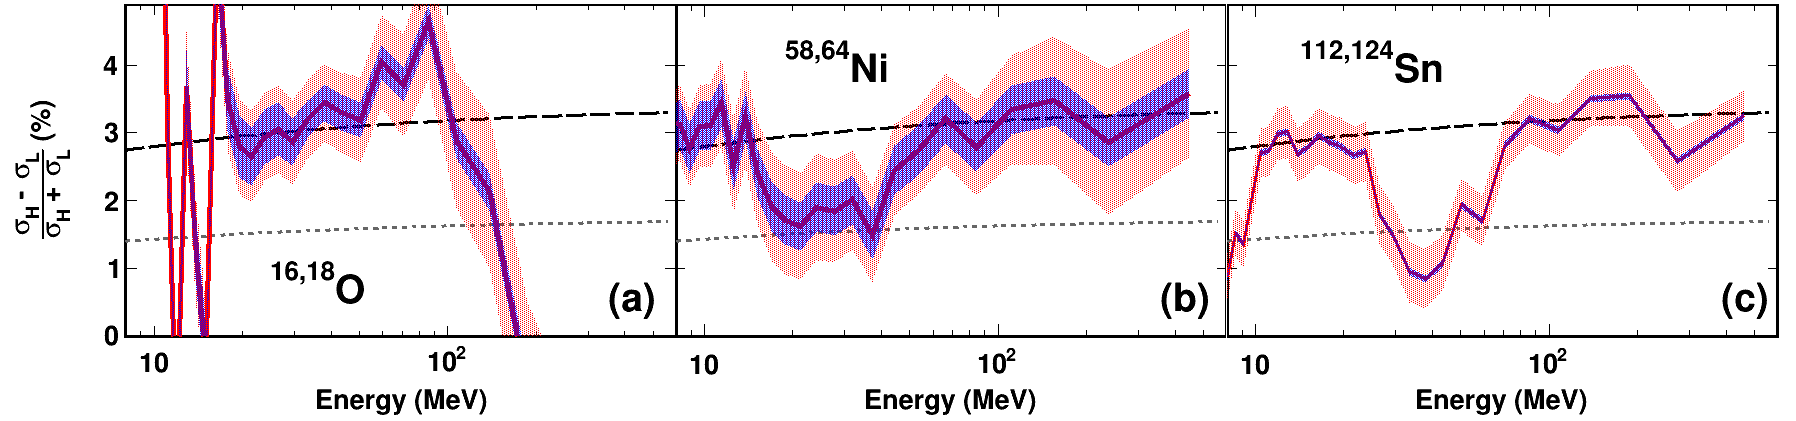
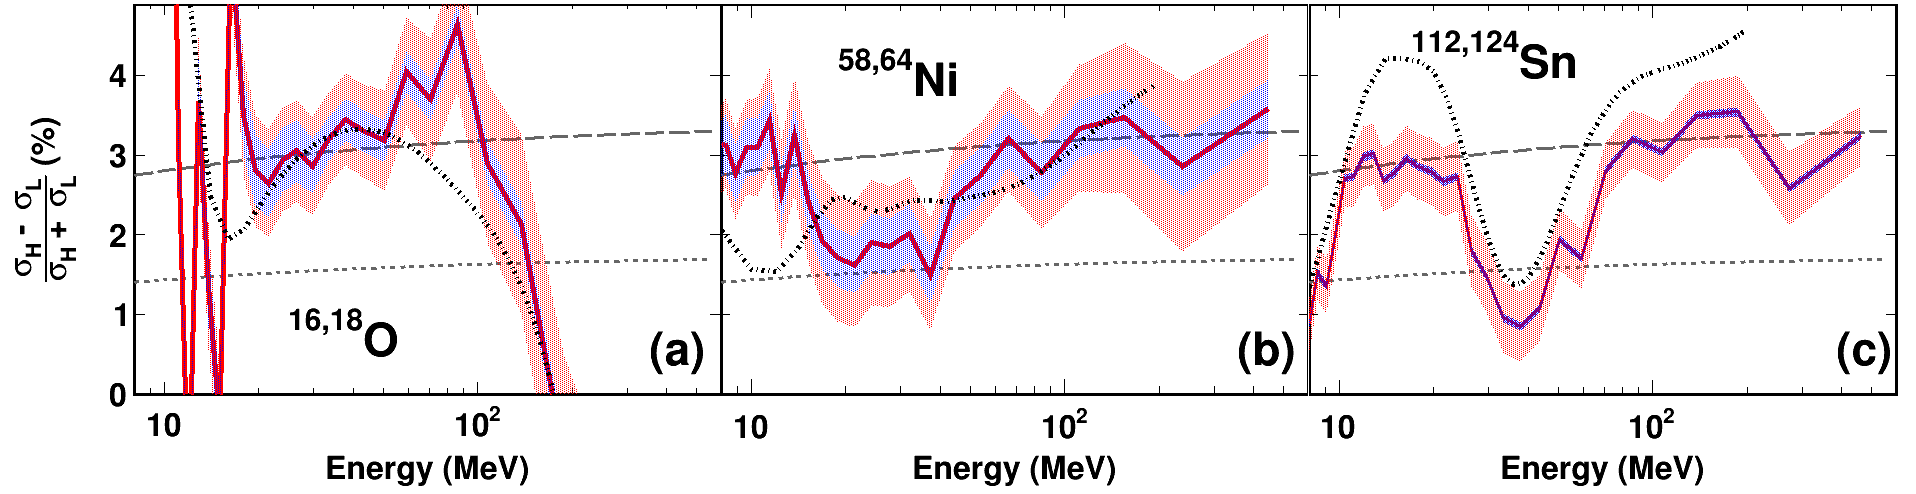
Updated ThreePanelRelDiff to include DOM relative diffs from fit

diff --git a/analysis/prettyPrint/ThreePanelRelDiff.cpp b/analysis/prettyPrint/ThreePanelRelDiff.cpp
@@ -69,6 +69,45 @@ void ThreePanelRelDiff() {
         TGraph* SARelDiffGraphSixth = (TGraph*)ramsauerFile->Get(SARelDiffGraphSixthName.c_str());
         TGraph* RamsauerRelDiffGraph = (TGraph*)ramsauerFile->Get(RamsauerRelDiffGraphName.c_str());
 
+        // create DOM relative difference file
+        vector<double> energies;
+        vector<double> CSs;
+        vector<double> energyErrors;
+        vector<double> CSErrors;
+
+        string DOMRelDiffFileName = "/home/cdpruitt/gDOM/output/o18_o16.txt";
+        ifstream DOMRelDiffFile(DOMRelDiffFileName.c_str());
+        string line;
+        while(getline(DOMRelDiffFile,line))
+        {
+            // parse line into tokens
+            vector<string> tokens;
+            istringstream iss(line);
+            copy(istream_iterator<string>(iss),
+                    istream_iterator<string>(),
+                    back_inserter(tokens));
+
+            // skip empty lines
+            if(!tokens.size())
+            {
+                continue;
+            }
+
+            energies.push_back(stod(tokens[0]));
+            energyErrors.push_back(0);
+            CSs.push_back(100*stod(tokens[1]));
+            CSErrors.push_back(0);
+            //CSErrors.push_back(100*stod(tokens[2]));
+        }
+
+        TGraphAsymmErrors* DOMGraph = new TGraphAsymmErrors(energies.size(),
+                &energies[0],
+                &CSs[0],
+                &energyErrors[0],
+                &energyErrors[0],
+                &CSErrors[0],
+                &CSErrors[0]);
+
         // Set graph point and line characteristics
         relGraph->SetLineColor(kRed);
         relGraph->SetLineWidth(5);
@@ -79,18 +118,22 @@ void ThreePanelRelDiff() {
 
         SARelDiffGraphThird->SetLineStyle(9);
         SARelDiffGraphThird->SetLineWidth(3);
-        SARelDiffGraphThird->SetLineColor(kBlack);
+        SARelDiffGraphThird->SetLineColor(kGray+2);
 
         SARelDiffGraphSixth->SetLineStyle(7);
         SARelDiffGraphSixth->SetLineWidth(3);
         SARelDiffGraphSixth->SetLineColor(kGray+2);
+
+        DOMGraph->SetLineStyle(4);
+        DOMGraph->SetLineWidth(5);
+        DOMGraph->SetLineColor(kBlack);
 
         RamsauerRelDiffGraph->SetLineStyle(7);
         RamsauerRelDiffGraph->SetLineWidth(5);
         RamsauerRelDiffGraph->SetLineColor(kGray+2);
 
         relGraphSE->SetFillColor(kBlue);
-        relGraphSE->SetFillStyle(3001);
+        relGraphSE->SetFillStyle(3002);
 
         // first panel
         {
@@ -110,6 +153,7 @@ void ThreePanelRelDiff() {
             mg->Add(SARelDiffGraphSixth, "l");
             mg->Add(relGraph,"3l");
             mg->Add(relGraphSE, "3");
+            mg->Add(DOMGraph, "l");
 
             mg->Draw("al");
 
@@ -162,6 +206,7 @@ void ThreePanelRelDiff() {
             legend->AddEntry(relGraph,"Exp data, sys + stat   ","f");
             //legend->AddEntry(SARelDiffGraph,"SAS, r #alpha A^{1/3} ","l");
             legend->AddEntry(relGraphSE,"Exp data, sys only   ","f");
+            legend->AddEntry(DOMGraph,"DOM fit","l");
             //legend->AddEntry(RamsauerRelDiffGraph,"Ramsauer","l");
             //legend->Draw();
         }
@@ -189,6 +234,47 @@ void ThreePanelRelDiff() {
         TGraph* SARelDiffGraphSixth = (TGraph*)ramsauerFile->Get(SARelDiffGraphSixthName.c_str());
         TGraph* RamsauerRelDiffGraph = (TGraph*)ramsauerFile->Get(RamsauerRelDiffGraphName.c_str());
 
+        // create DOM relative difference file
+        vector<double> energies;
+        vector<double> CSs;
+        vector<double> energyErrors;
+        vector<double> CSErrors;
+
+        string DOMRelDiffFileName = "/home/cdpruitt/gDOM/output/ni64_ni58.txt";
+        ifstream DOMRelDiffFile(DOMRelDiffFileName.c_str());
+        string line;
+        while(getline(DOMRelDiffFile,line))
+        {
+            // parse line into tokens
+            vector<string> tokens;
+            istringstream iss(line);
+            copy(istream_iterator<string>(iss),
+                    istream_iterator<string>(),
+                    back_inserter(tokens));
+
+            // skip empty lines
+            if(!tokens.size())
+            {
+                continue;
+            }
+
+            energies.push_back(stod(tokens[0]));
+            energyErrors.push_back(0);
+            CSs.push_back(100*stod(tokens[1]));
+            CSErrors.push_back(0);
+            //CSErrors.push_back(100*stod(tokens[2]));
+        }
+
+        TGraphAsymmErrors* DOMGraph = new TGraphAsymmErrors(energies.size(),
+                &energies[0],
+                &CSs[0],
+                &energyErrors[0],
+                &energyErrors[0],
+                &CSErrors[0],
+                &CSErrors[0]);
+
+
+
         // Set graph point and line characteristics
         relGraph->SetLineColor(kRed);
         relGraph->SetLineWidth(5);
@@ -199,18 +285,23 @@ void ThreePanelRelDiff() {
 
         SARelDiffGraphThird->SetLineStyle(9);
         SARelDiffGraphThird->SetLineWidth(3);
-        SARelDiffGraphThird->SetLineColor(kBlack);
+        SARelDiffGraphThird->SetLineColor(kGray+2);
 
         SARelDiffGraphSixth->SetLineStyle(7);
         SARelDiffGraphSixth->SetLineWidth(3);
         SARelDiffGraphSixth->SetLineColor(kGray+2);
+
+        DOMGraph->SetLineStyle(4);
+        DOMGraph->SetLineWidth(5);
+        DOMGraph->SetLineColor(kBlack);
+
 
         RamsauerRelDiffGraph->SetLineStyle(7);
         RamsauerRelDiffGraph->SetLineWidth(5);
         RamsauerRelDiffGraph->SetLineColor(kGray+2);
 
         relGraphSE->SetFillColor(kBlue);
-        relGraphSE->SetFillStyle(3001);
+        relGraphSE->SetFillStyle(3002);
 
         // second panel
         {
@@ -230,6 +321,7 @@ void ThreePanelRelDiff() {
             mg->Add(SARelDiffGraphSixth, "l");
             mg->Add(relGraph,"3l");
             mg->Add(relGraphSE, "3");
+            mg->Add(DOMGraph, "l");
 
             mg->Draw("al");
 
@@ -282,6 +374,8 @@ void ThreePanelRelDiff() {
             legend->AddEntry(relGraph,"Exp data, sys + stat   ","f");
             //legend->AddEntry(SARelDiffGraph,"SAS, r #alpha A^{1/3} ","l");
             legend->AddEntry(relGraphSE,"Exp data, sys only   ","f");
+            legend->AddEntry(DOMGraph,"DOM fit","l");
+
             //legend->AddEntry(RamsauerRelDiffGraph,"Ramsauer","l");
             //legend->Draw();
         }
@@ -312,6 +406,45 @@ void ThreePanelRelDiff() {
         TGraph* RamsauerRelDiffGraph = (TGraph*)ramsauerFile->Get(RamsauerRelDiffGraphName.c_str());
         TGraph* RamsauerRelDiffGraphSixth = (TGraph*)ramsauerFile->Get(RamsauerRelDiffGraphSixthName.c_str());
 
+        // create DOM relative difference file
+        vector<double> energies;
+        vector<double> CSs;
+        vector<double> energyErrors;
+        vector<double> CSErrors;
+
+        string DOMRelDiffFileName = "/home/cdpruitt/gDOM/output/sn124_sn112.txt";
+        ifstream DOMRelDiffFile(DOMRelDiffFileName.c_str());
+        string line;
+        while(getline(DOMRelDiffFile,line))
+        {
+            // parse line into tokens
+            vector<string> tokens;
+            istringstream iss(line);
+            copy(istream_iterator<string>(iss),
+                    istream_iterator<string>(),
+                    back_inserter(tokens));
+
+            // skip empty lines
+            if(!tokens.size())
+            {
+                continue;
+            }
+
+            energies.push_back(stod(tokens[0]));
+            energyErrors.push_back(0);
+            CSs.push_back(100*stod(tokens[1]));
+            CSErrors.push_back(0);
+            //CSErrors.push_back(100*stod(tokens[2]));
+        }
+
+        TGraphAsymmErrors* DOMGraph = new TGraphAsymmErrors(energies.size(),
+                &energies[0],
+                &CSs[0],
+                &energyErrors[0],
+                &energyErrors[0],
+                &CSErrors[0],
+                &CSErrors[0]);
+
         // Set graph point and line characteristics
         relGraph->SetLineColor(kRed);
         relGraph->SetLineWidth(3);
@@ -322,11 +455,15 @@ void ThreePanelRelDiff() {
 
         SARelDiffGraphThird->SetLineStyle(9);
         SARelDiffGraphThird->SetLineWidth(3);
-        SARelDiffGraphThird->SetLineColor(kBlack);
+        SARelDiffGraphThird->SetLineColor(kGray+2);
 
         SARelDiffGraphSixth->SetLineStyle(7);
         SARelDiffGraphSixth->SetLineWidth(3);
         SARelDiffGraphSixth->SetLineColor(kGray+2);
+
+        DOMGraph->SetLineStyle(4);
+        DOMGraph->SetLineWidth(5);
+        DOMGraph->SetLineColor(kBlack);
 
         RamsauerRelDiffGraph->SetLineStyle(7);
         RamsauerRelDiffGraph->SetLineWidth(3);
@@ -357,6 +494,7 @@ void ThreePanelRelDiff() {
             mg->Add(SARelDiffGraphSixth, "l");
             mg->Add(relGraph,"3l");
             mg->Add(relGraphSE, "3");
+            mg->Add(DOMGraph, "l");
 
             mg->Draw("al");
 
@@ -398,7 +536,7 @@ void ThreePanelRelDiff() {
             latex.SetTextSize(0.10);
             latex.SetTextAlign(13); // align at top
 
-            latex.DrawLatex(0.13, 0.88, "^{112,124}Sn");
+            latex.DrawLatex(0.17, 0.92, "^{112,124}Sn");
 
             latex.SetTextSize(0.10);
             latex.DrawLatex(0.87, 0.33, "(c)");
@@ -409,6 +547,8 @@ void ThreePanelRelDiff() {
             legend->AddEntry(relGraph,"Exp data, sys + stat   ","f");
             //legend->AddEntry(SARelDiffGraphThird,"SAS, r #alpha A^{1/3} ","l");
             legend->AddEntry(relGraphSE,"Exp data, sys only   ","f");
+            legend->AddEntry(DOMGraph,"DOM fit","l");
+
             //legend->AddEntry(SARelDiffGraphSixth,"SAS, r #alpha A^{1/6} ","l");
             //legend->AddEntry(RamsauerRelDiffGraph,"Ramsauer","l");
             //legend->Draw();
